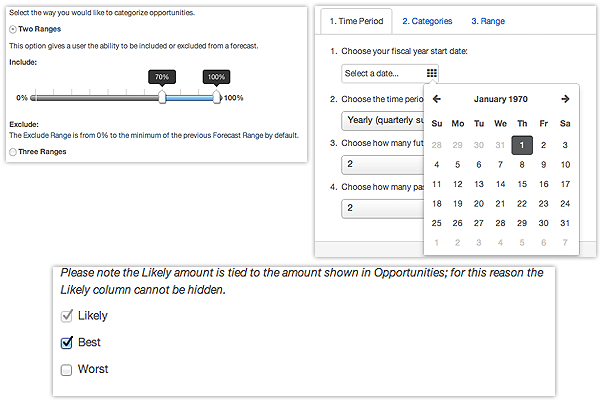
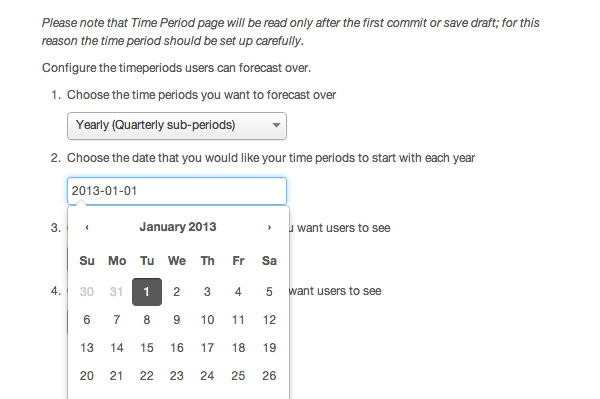
bug 61037 - screenshot update for tour

diff --git a/sugarcrm/include/language/en_us.lang.php b/sugarcrm/include/language/en_us.lang.php
@@ -3372,7 +3372,7 @@ $app_strings = array (
     'LBL_TOUR_SCREEN_1_TITLE' => 'New Forecasting module allows you',
     'LBL_TOUR_SCREEN_1_DESCRIPTION' => '<div style="float: left;"><div style="float: left; width: 300px;"><ul><li class="icon-ok">Set up your forecasting parameters</li><li class="icon-ok">Keep track of your pipeline and the distance from quota</li><li class="icon-ok">Forecast your sales teams\' pipeline</li></ul></div><div class="well" style="float: left; width: 220px; margin-left: 20px;"><img src="themes/default/images/pt-screen1-thumb.png" width="220" id="thumbnail_1" class="thumb"></div></div><div class="clear"></div>',
     'LBL_TOUR_SCREEN_2_TITLE' => 'Setup your Forecasting Parameters',
-    'LBL_TOUR_SCREEN_2_DESCRIPTION' => '<div style="float: left;"><div style="float: left; width: 300px;"><ul><li class="icon-ok">Select Fiscal Year start date</li><li class="icon-ok">Choose Yearly or Quarterly time periods</li><li class="icon-ok">Select number of Time Periods to Forecast over</li><li class="icon-ok">Select Categories to include in Forecast</li><li class="icon-ok">Select Range to forecast, such as likely, best or worst</li></ul></div><div class="well" style="float: left; width: 220px; margin-left: 20px;"><img src="themes/default/images/pt-screen2-thumb.png" width="167" id="thumbnail_2" class="thumb"></div></div><div class="clear"></div>',
+    'LBL_TOUR_SCREEN_2_DESCRIPTION' => '<div style="float: left;"><div style="float: left; width: 300px;"><ul><li class="icon-ok">Select Fiscal Year start date</li><li class="icon-ok">Choose Yearly or Quarterly time periods</li><li class="icon-ok">Select number of Time Periods to Forecast over</li><li class="icon-ok">Select Probability Ranges to include in Forecast</li><li class="icon-ok">Select the scenario to forecast, such as likely, best or worst</li></ul></div><div class="well" style="float: left; width: 220px; margin-left: 20px;"><img src="themes/default/images/pt-screen2-thumb.png" width="220" id="thumbnail_2" class="thumb"></div></div><div class="clear"></div>',
     'LBL_TOUR_SCREEN_3_TITLE' => 'Manage your pipeline',
     'LBL_TOUR_SCREEN_3_DESCRIPTION' => '<div style="float: left;"><div style="float: left; width: 300px;"><ul><li class="icon-ok">Select the Time Period for your Forecast</li><li class="icon-ok">Review and Edit Amounts and Probabilities for your Opportunities</li><li class="icon-ok">Save your Forecast Worksheet without committing or;</li><li class="icon-ok">Commit Forecast to Manager, and view History of previous Commits</li></ul></div><div class="well" style="float: left; width: 220px; margin-left: 20px;"><img src="themes/default/images/pt-screen5-thumb.png" width="220" id="thumbnail_5" class="thumb"></div></div><div class="clear"></div>',
     'LBL_TOUR_SCREEN_4_TITLE' => 'Manage your pipeline',
